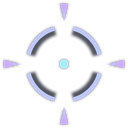
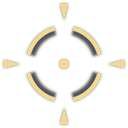
Cursor: game UI palette (neon teal, gold for orders and right click), smaller hover orbit
Claude-Session: https://claude.ai/code/session_01PBWCJMuogCF2WfMz56chuu

diff --git a/Assets/Scripts/Rendering/GameCursor.cs b/Assets/Scripts/Rendering/GameCursor.cs
@@ -9,11 +9,11 @@ namespace StellarisClone.Rendering
     /// <summary>
     /// Курсор игры, нарисованный поверх всего интерфейса (системный скрыт) — с эффектами, которых не умеет
     /// аппаратный курсор. Картинки — Resources/UI/Cursors (рисует Tools/cursors/make_cursors.py).
-    ///   • голографическая стрелка со свечением и мерцающей звёздочкой на острие;
+    ///   • голографическая стрелка в бирюзовых тонах интерфейса со свечением и мерцающей звёздочкой на острие;
     ///   • шлейф звёздной пыли при движении;
     ///   • наведение на то, что можно нажать (кнопки, звёзды, свои флоты, планеты): орбита со спутником вокруг острия;
     ///   • клик — ударная волна и искры;
-    ///   • выделен флот и курсор на звезде — вращающийся прицел (ПКМ отправит флот туда).
+    ///   • выделен флот и курсор на звезде — вращающийся золотой прицел (ПКМ отправит флот туда).
     /// Размеры заданы для высоты экрана 1080 и масштабируются. Создаётся сам при запуске.
     /// </summary>
     public class GameCursor : MonoBehaviour
@@ -23,8 +23,10 @@ namespace StellarisClone.Rendering
         /// <summary>Остриё стрелки в долях картинки (от левого верхнего угла) — как ARROW[0] в make_cursors.py.</summary>
         private static readonly Vector2 ArrowTip = new Vector2(0.10f, 0.06f);
         private const float ArrowSize = 40f;
-        private static readonly Color Cyan = new Color(0.43f, 0.89f, 1f);
-        private static readonly Color Violet = new Color(0.67f, 0.43f, 1f);
+        // Палитра интерфейса (UIManager.DS): неоновый бирюзовый, глубокий бирюзовый, золото — приказы и ПКМ
+        private static readonly Color Teal = new Color(0.40f, 0.86f, 0.82f);
+        private static readonly Color DeepTeal = new Color(0.15f, 0.55f, 0.59f);
+        private static readonly Color Gold = new Color(0.95f, 0.78f, 0.40f);
 
         private class Mote
         {
@@ -123,32 +125,32 @@ namespace StellarisClone.Rendering
                 _sparkleImg.color = Glow(Color.white, 0.65f + 0.35f * Mathf.Sin(t * 7.1f) * Mathf.Sin(t * 2.3f));
             }
 
-            // Орбита: при наведении — вокруг острия, при приказе — крупнее и фиолетовая вокруг прицела
-            float ringSize = Mathf.Lerp(50f, 88f, _move) * k * Mathf.Lerp(0.7f, 1f, Mathf.Max(_hover, _move));
+            // Орбита: при наведении — небольшая вокруг острия, при приказе — крупнее и золотая вокруг прицела
+            float ringSize = Mathf.Lerp(30f, 72f, _move) * k * Mathf.Lerp(0.75f, 1f, Mathf.Max(_hover, _move));
             if (_ringImg != null)
             {
                 Place(_ring, tip, ringSize, -t * 55f);
-                _ringImg.color = Glow(Color.Lerp(Cyan, Violet, _move), Mathf.Max(_hover * 0.85f, _move * 0.55f));
+                _ringImg.color = Glow(Color.Lerp(Teal, Gold, _move), Mathf.Max(_hover * 0.75f, _move * 0.5f));
             }
             if (_satImg != null)
             {
                 float orbit = ringSize * 0.40f;
-                Place(_sat, tip + new Vector2(Mathf.Cos(t * 3f), Mathf.Sin(t * 3f)) * orbit, 10f * k, 0f);
+                Place(_sat, tip + new Vector2(Mathf.Cos(t * 3f), Mathf.Sin(t * 3f)) * orbit, 7f * k, 0f);
                 _satImg.color = Glow(Color.white, _hover);
             }
 
             // Прицел приказа флоту
             if (_targetImg != null)
             {
-                Place(_target, tip, 56f * k * (1f + 0.05f * Mathf.Sin(t * 4f)), t * 25f);
+                Place(_target, tip, 50f * k * (1f + 0.05f * Mathf.Sin(t * 4f)), t * 25f);
                 _targetImg.color = new Color(1f, 1f, 1f, _move);
             }
 
             if (_dot != null)
             {
                 Trail(tip, k);
-                if (Input.GetMouseButtonDown(0)) Burst(tip, k, Cyan);
-                if (Input.GetMouseButtonDown(1)) Burst(tip, k, Violet);
+                if (Input.GetMouseButtonDown(0)) Burst(tip, k, Teal);
+                if (Input.GetMouseButtonDown(1)) Burst(tip, k, Gold);
             }
             UpdateMotes(dt);
         }
@@ -166,14 +168,14 @@ namespace StellarisClone.Rendering
             {
                 var p = Vector2.Lerp(_lastSpawn, tip, i / (float)n) + Random.insideUnitCircle * 2f * k;
                 Spawn(p, Random.insideUnitCircle * 12f * k, Random.Range(0.35f, 0.55f), Random.Range(7f, 12f) * k,
-                      Color.Lerp(Color.white, Cyan, 0.6f), Violet, false);
+                      Color.Lerp(Color.white, Teal, 0.6f), DeepTeal, false);
             }
             _lastSpawn = tip;
         }
 
         private void Burst(Vector2 tip, float k, Color c)
         {
-            if (_ripple != null) Spawn(tip, Vector2.zero, 0.4f, 100f * k, c, c, true);
+            if (_ripple != null) Spawn(tip, Vector2.zero, 0.4f, 80f * k, c, c, true);
             for (int i = 0; i < 7; i++)
             {
                 float ang = (i / 7f + Random.Range(-0.04f, 0.04f)) * Mathf.PI * 2f;

diff --git a/Tools/cursors/make_cursors.py b/Tools/cursors/make_cursors.py
@@ -1,11 +1,11 @@
 # Курсор игры и его эффекты -> Assets/Resources/UI/Cursors/ (собирает и анимирует GameCursor.cs).
-#   cursor_arrow.png       — голографическая стрелка: перелив белый -> бирюзовый -> фиолетовый, грани, светлая кромка (обычное смешивание)
+#   cursor_arrow.png       — голографическая стрелка: перелив белый -> неоновый бирюзовый -> глубокий бирюзовый, грани, светлая кромка
 #   cursor_arrow_glow.png  — размытое свечение стрелки
 #   fx_sparkle.png         — четырёхлучевая звёздочка на острие
 #   fx_dot.png             — мягкая точка: звёздная пыль шлейфа, искры клика, спутник орбиты
 #   fx_ring.png            — орбита с разрывами и засечками (наведение)
 #   fx_ripple.png          — мягкое кольцо ударной волны клика
-#   cursor_target.png      — прицел приказа флоту (обычное смешивание, с тёмной обводкой)
+#   cursor_target.png      — золотой прицел приказа флоту (обычное смешивание, с тёмной обводкой)
 # Свечения (glow, fx_*) — светлое на чёрном: шейдер UIAdditive берёт только цвет, без альфы.
 # Запуск: python3 make_cursors.py
 import os, math
@@ -14,7 +14,8 @@ from PIL import Image, ImageDraw, ImageFilter
 
 OUT = os.path.join(os.path.dirname(os.path.abspath(__file__)), '..', '..', 'Assets', 'Resources', 'UI', 'Cursors')
 SS = 4
-WHITE = np.array([255, 255, 255.]); CYAN = np.array([110, 228, 255.]); BLUE = np.array([60, 120, 255.]); VIOLET = np.array([170, 110, 255.])
+# Палитра интерфейса игры (UIManager.DS): неоновый бирюзовый NeonCyan, глубокий бирюзовый, золото — акцент приказов
+WHITE = np.array([255, 255, 255.]); TEAL = np.array([102, 219, 209.]); DEEP = np.array([38, 140, 150.]); ABYSS = np.array([18, 84, 100.]); GOLD = np.array([242, 199, 102.])
 
 # Стрелка в единицах 0..1 (остриё — ARROW[0]); TIP — остриё в долях картинки (GameCursor.ArrowTip)
 ARROW = [(0.10, 0.06), (0.10, 0.80), (0.29, 0.645), (0.42, 0.93), (0.55, 0.875), (0.425, 0.60), (0.68, 0.60)]
@@ -46,13 +47,13 @@ def arrow(size=128):
     n = size * SS
     body = np.asarray(mask(n, ARROW)) / 255.
     facet = np.asarray(mask(n, FACET)) / 255.
-    rgb = grad(n, [(0, WHITE), (0.25, CYAN), (0.7, BLUE), (1, VIOLET)])
+    rgb = grad(n, [(0, WHITE), (0.25, TEAL), (0.7, DEEP), (1, ABYSS)])
     rgb = rgb * (0.62 + 0.38 * facet[..., None])              # правая грань темнее — объём кристалла
     # светлая кромка: контур стрелки
     edge = Image.new('L', (n, n), 0)
     ImageDraw.Draw(edge).line(poly(n, ARROW + [ARROW[0]]), fill=255, width=int(n * 0.03), joint='curve')
     e = np.asarray(edge.filter(ImageFilter.GaussianBlur(n * 0.004))) / 255.
-    rgb = rgb * (1 - e[..., None]) + (WHITE * 0.85 + CYAN * 0.15) * e[..., None]
+    rgb = rgb * (1 - e[..., None]) + (WHITE * 0.8 + TEAL * 0.2) * e[..., None]
     # тонкая тёмная обводка снаружи — читается на светлом интерфейсе
     out = np.asarray(mask(n, ARROW).filter(ImageFilter.MaxFilter(int(n * 0.03) | 1))) / 255.
     out = np.asarray(Image.fromarray((out * 255).astype(np.uint8)).filter(ImageFilter.GaussianBlur(n * 0.006))) / 255.
@@ -62,7 +63,7 @@ def arrow(size=128):
     save(col, alpha * 255, 'cursor_arrow', size)
 
     g = np.asarray(mask(n, ARROW, n * 0.06)) / 255.
-    glow = grad(n, [(0, CYAN), (0.5, BLUE), (1, VIOLET)]) * (g[..., None] * 1.6)
+    glow = grad(n, [(0, TEAL), (0.6, DEEP), (1, ABYSS)]) * (g[..., None] * 1.6)
     save(glow, np.clip(g * 1.6, 0, 1) * 255, 'cursor_arrow_glow', size)
 
 def sparkle(size=128):
@@ -123,7 +124,7 @@ def target(size=128):
     lt = np.asarray(lite) / 255.
     y, x = (np.mgrid[0:n, 0:n] + 0.5) / n - 0.5
     t = np.clip(np.hypot(x, y) / 0.5, 0, 1)[..., None]
-    col = (CYAN * (1 - t) + VIOLET * t) * 0.6 + WHITE * 0.4
+    col = GOLD * 0.75 + WHITE * 0.25
     rgb = col * lt[..., None] + np.array([6, 10, 24.]) * (1 - lt[..., None])
     alpha = np.maximum(lt, dk * 0.7)
     save(rgb, alpha * 255, 'cursor_target', size)
